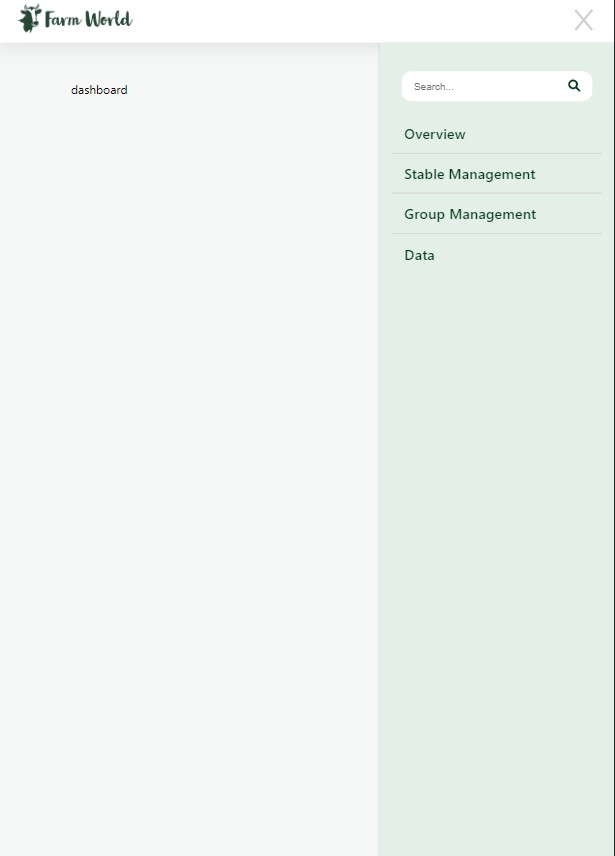
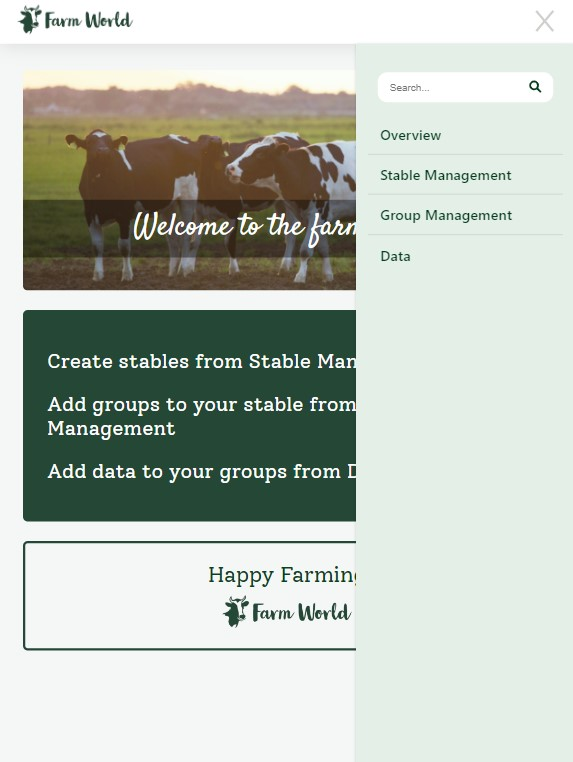
readme updated

diff --git a/README.md b/README.md
@@ -23,6 +23,7 @@
 - Header 
 - Sidebar
 - Responsive layout for Header and sidebar
+- layout for overview (when user logged in for the first time) + responsive layout
 
 # Responsive layout
 - Desktop version
@@ -35,10 +36,10 @@
 ![mobile version](/public/assets/sidebarMobileOff.jpg) ![mobile version](/public/assets/sidebarMobile.jpg)
 
 ## Currently working on
-- layout for overview (when user logged in for the first time)
+- Welcome page layout
 
 ## Next
--  Welcome page layout
+-  Stable Management page layout 
 
 ## Links
 - Logo from [Adobe logo-maker](https://express.adobe.com/express-apps/logo-maker/)
